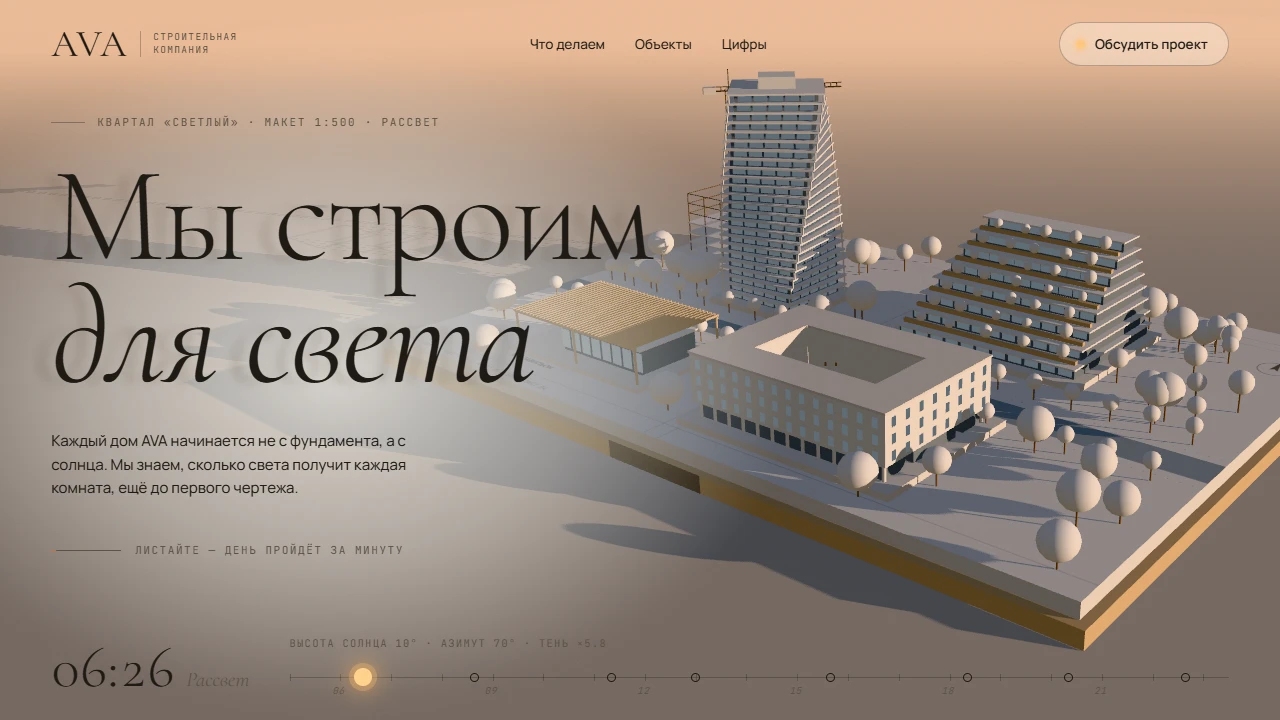
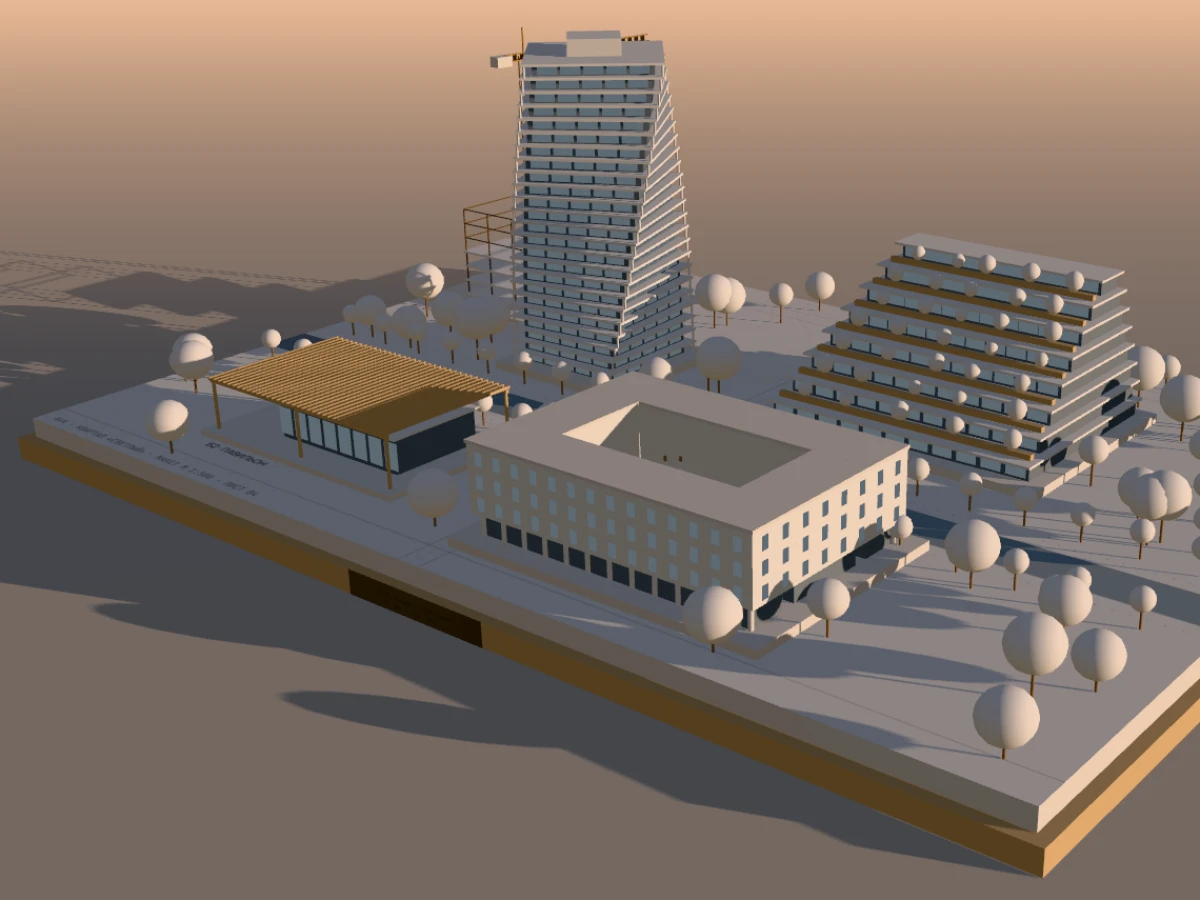
fix(works): improve mobile slider with scroll-snap and full slide width, add mobile nav controls, and update AVA cover to pure 3D model render

diff --git a/src/App.jsx b/src/App.jsx
@@ -381,6 +381,7 @@ function Services({ openType }) {
 
 function Works({ onOpen, covered }) {
   const reel = useRef(null)
+  const [activeIdx, setActiveIdx] = useState(0)
   // какие карточки сейчас видны в ленте — живые мини-демо крутятся только у них
   const [vis, setVis] = useState(() => new Set())
   useEffect(() => {
@@ -390,6 +391,35 @@ function Works({ onOpen, covered }) {
     }), { root: reel.current, rootMargin: '0px 120px' })
     reel.current.querySelectorAll('.card').forEach((c) => io.observe(c))
     return () => io.disconnect()
+  }, [])
+  useEffect(() => {
+    const el = reel.current
+    if (!el) return
+    let raf = 0
+    const onScrollActive = () => {
+      if (raf) return
+      raf = requestAnimationFrame(() => {
+        raf = 0
+        const cards = el.querySelectorAll('.card')
+        if (!cards.length) return
+        const scrollCenter = el.scrollLeft + el.clientWidth / 2
+        let closest = 0, minDist = Infinity
+        cards.forEach((c, idx) => {
+          const center = c.offsetLeft + c.offsetWidth / 2
+          const dist = Math.abs(scrollCenter - center)
+          if (dist < minDist) {
+            minDist = dist
+            closest = idx
+          }
+        })
+        setActiveIdx(closest)
+      })
+    }
+    el.addEventListener('scroll', onScrollActive, { passive: true })
+    return () => {
+      el.removeEventListener('scroll', onScrollActive)
+      cancelAnimationFrame(raf)
+    }
   }, [])
   useEffect(() => {
     const el = reel.current
@@ -527,12 +557,42 @@ function Works({ onOpen, covered }) {
       }
     }
 
+    // Drag на touch: отличаем свайп от клика, чтобы при свайпе не открывался попап кейса
+    let touchStart = null
+    let touchMoved = false
+    const onTouchStart = (e) => {
+      if (!e.touches?.[0]) return
+      touchStart = { x: e.touches[0].clientX, y: e.touches[0].clientY }
+      touchMoved = false
+    }
+    const onTouchMove = (e) => {
+      if (!touchStart || !e.touches?.[0]) return
+      const dx = e.touches[0].clientX - touchStart.x
+      const dy = e.touches[0].clientY - touchStart.y
+      if (Math.hypot(dx, dy) > 8) {
+        touchMoved = true
+        el.dataset.dragged = '1'
+      }
+    }
+    const onTouchEnd = () => {
+      if (touchMoved) {
+        el.dataset.dragged = '1'
+        setTimeout(() => delete el.dataset.dragged, 140)
+      }
+      touchStart = null
+      touchMoved = false
+    }
+
     el.addEventListener('wheel', onWheel, { passive: false })
     el.addEventListener('scroll', onScroll, { passive: true })
     el.addEventListener('pointerdown', pd)
     addEventListener('pointermove', pm)
     addEventListener('pointerup', pu)
     addEventListener('pointercancel', pu)
+    el.addEventListener('touchstart', onTouchStart, { passive: true })
+    el.addEventListener('touchmove', onTouchMove, { passive: true })
+    el.addEventListener('touchend', onTouchEnd, { passive: true })
+    el.addEventListener('touchcancel', onTouchEnd, { passive: true })
 
     return () => {
       cancelAnimationFrame(smoothRaf)
@@ -542,8 +602,25 @@ function Works({ onOpen, covered }) {
       removeEventListener('pointermove', pm)
       removeEventListener('pointerup', pu)
       removeEventListener('pointercancel', pu)
+      el.removeEventListener('touchstart', onTouchStart)
+      el.removeEventListener('touchmove', onTouchMove)
+      el.removeEventListener('touchend', onTouchEnd)
+      el.removeEventListener('touchcancel', onTouchEnd)
     }
   }, [])
+
+  const scrollSlide = (dir) => {
+    const el = reel.current
+    if (!el) return
+    const cards = el.querySelectorAll('.card')
+    const next = Math.max(0, Math.min(cards.length - 1, activeIdx + dir))
+    const target = cards[next]
+    if (target) {
+      const targetLeft = target.offsetLeft - (el.clientWidth - target.offsetWidth) / 2
+      el.scrollTo({ left: targetLeft, behavior: 'smooth' })
+    }
+  }
+
   return (
     <>
       <h2 className="sr">Работы</h2>
@@ -554,7 +631,7 @@ function Works({ onOpen, covered }) {
             <div key={i} data-i={i} className={`card ${empty ? 'empty' : ''}`} style={{ animationDelay: `${i * 70}ms` }} role="button" tabIndex={0}
               aria-label={empty ? `Свободный слот ${i + 1}` : `Открыть кейс ${p.title}`}
               onKeyDown={(e) => { if (e.key === 'Enter' || e.key === ' ') { e.preventDefault(); e.stopPropagation(); onOpen({ ...p, idx: i, ox: innerWidth / 2, oy: innerHeight / 2 }) } }}
-              onClick={(e) => { if (reel.current.dataset.dragged) return; onOpen({ ...p, idx: i, ox: e.clientX, oy: e.clientY }) }}
+              onClick={(e) => { if (reel.current?.dataset.dragged) return; onOpen({ ...p, idx: i, ox: e.clientX, oy: e.clientY }) }}
               data-cursor={empty ? 'слот' : (p.demo || p.iframe) ? 'потыкать' : 'открыть'}>
               <div className={`card-media ${(p.demo || p.iframe || p.video) ? 'is-demo' : ''} ${p.demo && (covered || !vis.has(i)) ? 'paused' : ''}`}>
                 {isMobile() ? (
@@ -580,6 +657,15 @@ function Works({ onOpen, covered }) {
           )
         })}
         <div className="reel-end">← тяни / листай вбок →</div>
+      </div>
+      <div className="mobile-reel-controls" aria-label="Навигация по работам">
+        <button className="reel-btn reel-prev" onClick={() => scrollSlide(-1)} disabled={activeIdx === 0} aria-label="Предыдущая работа">
+          <svg width="18" height="18" viewBox="0 0 24 24" fill="none" stroke="currentColor" strokeWidth="2.4" strokeLinecap="round" strokeLinejoin="round" aria-hidden="true"><path d="m15 18-6-6 6-6"/></svg>
+        </button>
+        <span className="reel-counter">{String(activeIdx + 1).padStart(2, '0')} / {String(projects.length).padStart(2, '0')}</span>
+        <button className="reel-btn reel-next" onClick={() => scrollSlide(1)} disabled={activeIdx === projects.length - 1} aria-label="Следующая работа">
+          <svg width="18" height="18" viewBox="0 0 24 24" fill="none" stroke="currentColor" strokeWidth="2.4" strokeLinecap="round" strokeLinejoin="round" aria-hidden="true"><path d="m9 18 6-6-6-6"/></svg>
+        </button>
       </div>
     </>
   )

diff --git a/src/styles.css b/src/styles.css
@@ -505,7 +505,7 @@ a{color:inherit}
 @media (max-height:760px) and (min-width:761px){.proc-steps p{font-size:14px}.rev blockquote{font-size:15px}.svc-item p{font-size:14px}.svc{gap:10px}.svc-item{padding:14px 18px}}
 
 /* Responsive chapter layout. MOBILE_MQ must match src/mq.js. */
-.compact-heading,.telegram-mark,.nav .nav-more,.nav-extra{display:none}
+.compact-heading,.telegram-mark,.nav .nav-more,.nav-extra,.mobile-reel-controls{display:none}
 .case-open .mascot,.case-open .mascot-hint{display:none}
 .case-open .progress,.case-open .counter,.case-open .next{opacity:0;pointer-events:none}
 .case-open .chapter{pointer-events:none}
@@ -567,11 +567,17 @@ a{color:inherit}
   .svc-item h3{font-size:26px;margin:6px 0 8px}
   .svc-item p{font-size:14px;line-height:1.5;max-width:640px}
   .svc-foot{gap:12px;flex-wrap:wrap;margin-top:10px;font-size:14px}
-  .svc-foot button{min-height:44px;font-size:14px}
-  .reel{display:flex;gap:16px;padding:0 0 12px;scroll-padding:0;overflow-x:auto;overflow-y:hidden;touch-action:pan-x;min-height:0;perspective:none!important}
-  .card{width:min(340px,82vw);height:460px;min-width:0;transform:none!important;transform-style:flat!important;will-change:auto!important}
+  .reel{display:flex;gap:16px;padding:0 0 12px;scroll-padding:0;overflow-x:auto;overflow-y:hidden;scroll-snap-type:x mandatory;-webkit-overflow-scrolling:touch;touch-action:pan-x pan-y;min-height:0;perspective:none!important;overscroll-behavior-x:contain}
+  .card{flex:0 0 calc(100vw - 2 * var(--gutter));width:calc(100vw - 2 * var(--gutter));max-width:440px;height:470px;min-width:0;scroll-snap-align:center;scroll-snap-stop:always;transform:none!important;transform-style:flat!important;will-change:auto!important}
   .card:hover,.card:active{transform:none!important}
   .card-media{flex:1;min-height:0}
+  .card-media img,.card-media video{transform:none!important;object-fit:cover;object-position:center center}
+  .reel-end{scroll-snap-align:center;flex:0 0 160px}
+  .mobile-reel-controls{display:flex;align-items:center;justify-content:center;gap:14px;margin:8px 0 16px;z-index:2}
+  .mobile-reel-controls .reel-btn{width:42px;height:42px;border-radius:50%;display:grid;place-items:center;background:rgba(236,235,230,.06);border:1px solid var(--line);color:var(--ink);font-size:16px;transition:background .2s,border-color .2s,opacity .2s}
+  .mobile-reel-controls .reel-btn:active{background:var(--ink);color:#000}
+  .mobile-reel-controls .reel-btn:disabled{opacity:.25;pointer-events:none}
+  .mobile-reel-controls .reel-counter{font-size:13px;font-weight:700;color:var(--mute);letter-spacing:.08em;font-variant-numeric:tabular-nums}
   .case-iframe-preview{position:relative;width:100%;height:100%;min-height:280px;display:flex;flex-direction:column;align-items:center;justify-content:center;overflow:hidden;border-radius:18px;background:#111}
   .case-iframe-preview img{position:absolute;inset:0;width:100%;height:100%;object-fit:cover;opacity:.65;filter:brightness(.85)}
   .case-launch-btn{position:relative;z-index:3;min-height:54px;padding:0 24px;font-size:15px;box-shadow:0 12px 32px rgba(0,0,0,.7)}
